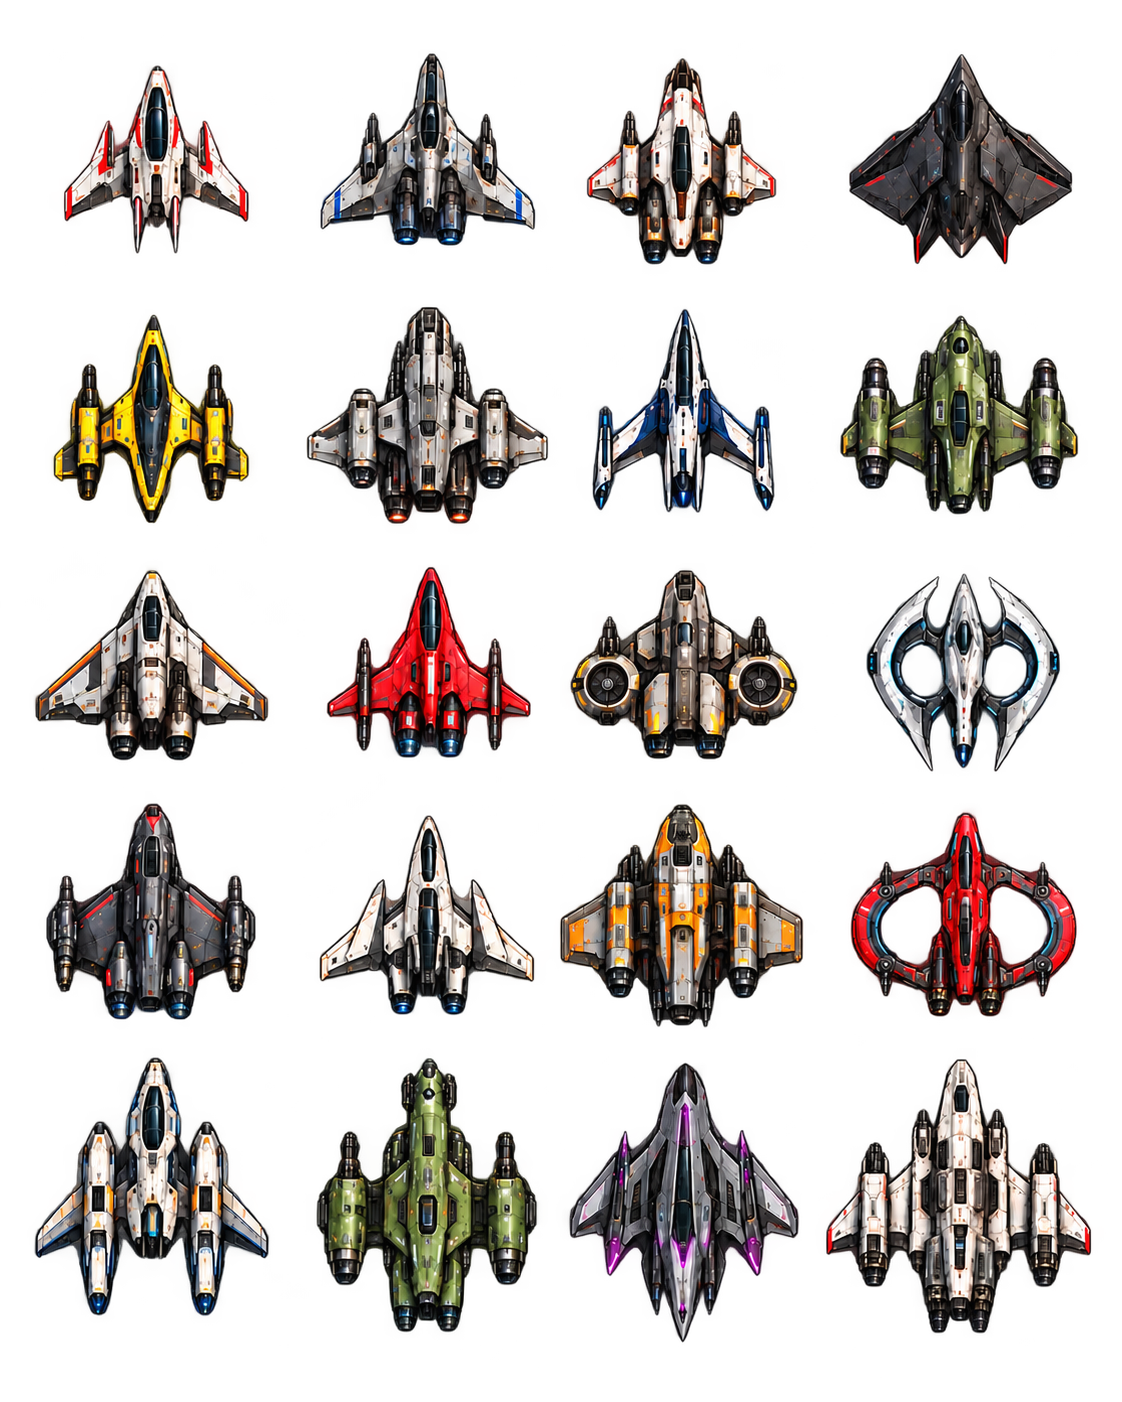
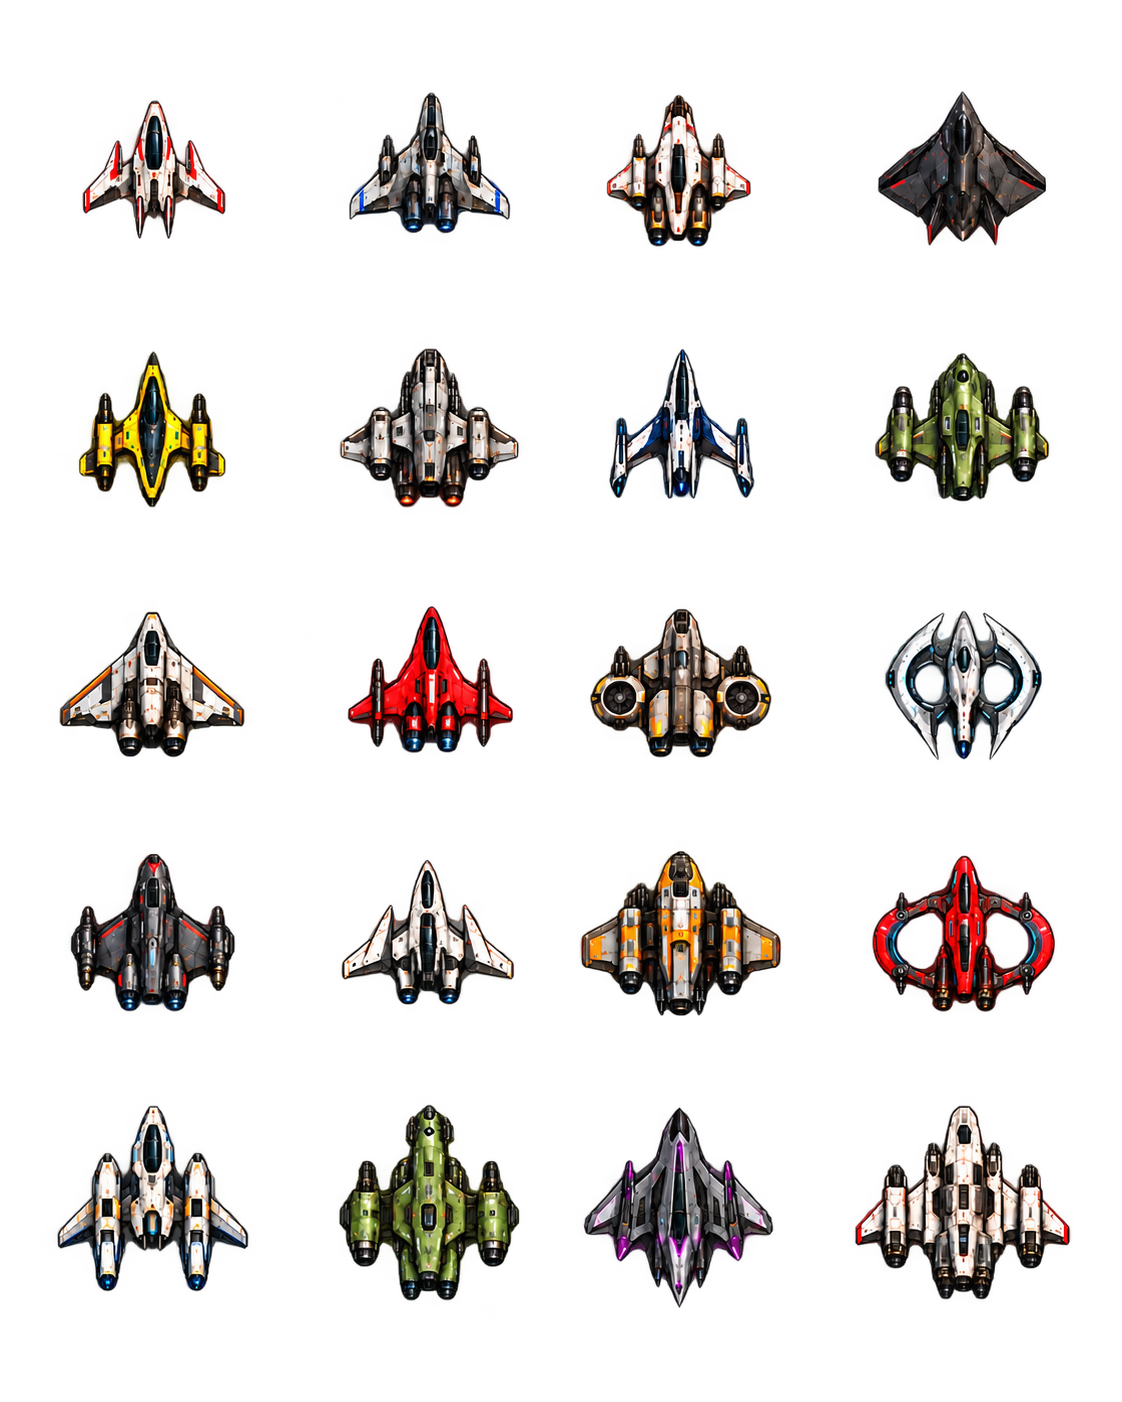
Fix ship silhouettes, orientation and flicker

diff --git a/frontend/src/index.css b/frontend/src/index.css
@@ -113,7 +113,7 @@ h2 { margin: 0; color: #eff8f3; font-size: clamp(22px, 3vw, 31px); font-weight: 
 @keyframes star-sway-near { to { transform: translate3d(-11px, 8px, 0); } }
 .shooting-star { position: absolute; top: 16%; left: -16%; width: 95px; height: 2px; border-radius: 50%; background: linear-gradient(90deg, transparent, #bce1ffad 70%, #fff); box-shadow: 0 0 5px #d8edff88; opacity: 0; animation: meteor-cross 18s linear infinite; }
 .shooting-star-two { top: 39%; left: -22%; width: 70px; animation-duration: 29s; animation-delay: -12s; }
-@keyframes meteor-cross { 0%, 28% { opacity: 0; transform: translate3d(0, 0, 0) rotate(-18deg); } 30% { opacity: .75; } 40% { opacity: .75; } 43%, 100% { opacity: 0; transform: translate3d(125vw, 28vh, 0) rotate(-18deg); } }
+@keyframes meteor-cross { 0%, 28% { opacity: 0; transform: translate3d(0, 0, 0); } 30% { opacity: .75; } 40% { opacity: .75; } 43%, 100% { opacity: 0; transform: translate3d(125vw, 0, 0); } }
 .starfield-paused .starfield-stars, .starfield-paused .shooting-star { animation-play-state: paused; }
 @media (prefers-reduced-motion: reduce) { .starfield-stars { animation: none; } .shooting-star { display: none; } }
 
@@ -192,9 +192,9 @@ h2 { margin: 0; color: #eff8f3; font-size: clamp(22px, 3vw, 31px); font-weight: 
 .cryptoid-ghostCoin .asteroid-shape { clip-path: polygon(50% 0, 82% 20%, 91% 69%, 72% 83%, 50% 70%, 28% 83%, 9% 69%, 18% 20%); }
 .cryptoid-cloaked { opacity: .33; pointer-events: none; }
 .cryptoid-cloaked::before { position: absolute; z-index: 2; top: -15px; left: 50%; transform: translateX(-50%); color: #e8c0ff; content: 'PHASED'; font: 8px 'DM Mono', monospace; letter-spacing: .1em; }
-.asteroid-preparing::after { border: 2px solid #f5c86d; background: rgba(245, 200, 109, .18); animation: attack-warning .32s ease-in-out infinite alternate; }
+.asteroid-preparing::after { border: 2px solid #f5c86d; background: rgba(245, 200, 109, .18); }
 @keyframes attack-warning { from { opacity: .35; } to { opacity: 1; } }
-.health-bar { position: absolute; z-index: 2; bottom: -12px; left: 16%; width: 68%; height: 3px; background: #18343f; }
+.health-bar { position: absolute; z-index: 2; top: -5px; left: 25%; width: 50%; height: 2px; border-radius: 2px; background: #263946; pointer-events: none; }
 .health-bar b { display: block; height: 100%; background: var(--gold); transition: width .15s ease; }
 .player-laser { position: absolute; z-index: 3; width: 5px; height: 19px; transform: translate(-50%, -50%); border-radius: 4px; background: linear-gradient(#fff, #d9b9ff, #8847df); box-shadow: 0 0 9px #e2adff, 0 0 18px #9162f1; pointer-events: none; }
 .player-laser-overdrive { width: 8px; height: 24px; background: linear-gradient(#fff, #ffd368, #bd62ff); box-shadow: 0 0 13px #ffdb7c, 0 0 26px #bd62ff; }
@@ -203,7 +203,7 @@ h2 { margin: 0; color: #eff8f3; font-size: clamp(22px, 3vw, 31px); font-weight: 
 .player-wing { position: absolute; inset: 5px 0 12px; clip-path: polygon(50% 0, 64% 29%, 92% 46%, 100% 75%, 72% 71%, 61% 100%, 39% 100%, 28% 71%, 0 75%, 8% 46%, 36% 29%); background: linear-gradient(115deg, #f5c965 1%, #32165f 15%, #8533d6 36%, #b886ff 50%, #6d2fb5 65%, #34176a 85%, #f5c965 99%); border-bottom: 2px solid #f6d17b; }
 .player-hull { position: absolute; top: 5px; left: 27px; width: 18px; height: 38px; clip-path: polygon(50% 0, 100% 43%, 76% 100%, 24% 100%, 0 43%); background: linear-gradient(90deg, #f6d47e, #eee6ff 42%, #7141cb 70%, #f6d47e); }
 .player-core { position: absolute; top: 20px; left: 27px; display: grid; place-items: center; width: 18px; height: 18px; border-radius: 50%; background: #311b64; border: 1px solid #f6d47e; color: #ffd972; font: 700 16px Georgia, serif; text-shadow: 0 0 6px #f6d47e; }
-.player-engine { position: absolute; bottom: 0; width: 8px; height: 17px; border-radius: 0 0 50% 50%; background: linear-gradient(#f9fbff, #ab67ff, transparent); box-shadow: 0 4px 12px #ba79ff; animation: engine-pulse .28s ease-in-out infinite alternate; }
+.player-engine { position: absolute; bottom: 0; width: 8px; height: 17px; border-radius: 0 0 50% 50%; background: linear-gradient(#f9fbff, #ab67ff, transparent); box-shadow: 0 4px 12px #ba79ff; }
 .player-engine-left { left: 20px; }.player-engine-right { right: 20px; }
 .player-ship-hurt { opacity: .62; filter: drop-shadow(0 0 14px #fff); }
 
@@ -225,8 +225,8 @@ h2 { margin: 0; color: #eff8f3; font-size: clamp(22px, 3vw, 31px); font-weight: 
 .cryptoid-elite .cryptoid-core { box-shadow: 0 2px 0 #10202c, 0 0 15px var(--ship-edge), 0 0 0 3px #d9b5ed55, inset 0 0 0 2px var(--coin-dark); }
 .asteroid.sector-boss { width: 124px; height: 104px; z-index: 2; filter: drop-shadow(0 0 17px #ff9c67); }
 .sector-boss .cryptoid-core { font-size: 17px; }
-.sector-boss .health-bar { bottom: -16px; height: 6px; border: 1px solid #f7bd8e; }
-.sector-boss.boss-warning::after { border: 3px solid #ffd67d; background: rgba(255, 124, 75, .15); animation: attack-warning .32s ease-in-out infinite alternate; }
+.sector-boss .health-bar { top: -7px; height: 3px; }
+.sector-boss.boss-warning::after { border: 3px solid #ffd67d; background: rgba(255, 124, 75, .15); }
 .sector-boss.boss-enraged { filter: drop-shadow(0 0 20px #ff6779); }
 .cryptoid-solflare .asteroid-shape { clip-path: polygon(43% 0, 50% 19%, 57% 0, 72% 34%, 100% 50%, 72% 68%, 56% 77%, 50% 100%, 44% 77%, 28% 68%, 0 50%, 28% 34%); }
 .cryptoid-etherCrystal .asteroid-shape { clip-path: polygon(32% 5%, 50% 17%, 68% 5%, 76% 30%, 100% 39%, 83% 78%, 64% 66%, 50% 100%, 36% 66%, 17% 78%, 0 39%, 24% 30%); background: linear-gradient(90deg, #214569, #69c7e9 25%, #bedaff 50%, #796dc9 75%, #214569); }
@@ -239,13 +239,12 @@ h2 { margin: 0; color: #eff8f3; font-size: clamp(22px, 3vw, 31px); font-weight: 
 .player-ship .player-core::after { position: absolute; inset: 3px; border: 1px solid #82532b99; border-radius: 50%; content: ''; }
 /* Transparent reference fleet: body, emblem, and hit area remain independent. */
 .cryptoid::after { display: none; }
-.fleet-sprite { position: absolute; inset: 0; background-size: 400% 500%; background-repeat: no-repeat; clip-path: inset(8%); pointer-events: none; }
-.cryptoid .fleet-sprite { filter: drop-shadow(0 0 6px var(--ship-edge)); }
-.cryptoid .cryptoid-core { top: 53%; width: 30%; border-width: 1px; font-size: clamp(7px, 1vw, 11px); }
-.cryptoid-heavy .cryptoid-core, .cryptoid-elite .cryptoid-core { width: 28%; font-size: 13px; }
-.cryptoid .cryptoid-core::before { position: absolute; inset: -4px; border-radius: 50%; background: conic-gradient(var(--coin-light) var(--health, 100%), #29313f 0); content: ''; z-index: -1; }
+.fleet-sprite { position: absolute; inset: 0; background-size: 400% 500%; background-repeat: no-repeat; pointer-events: none; }
+.cryptoid .fleet-sprite { transform: rotate(180deg); filter: drop-shadow(0 0 3px var(--ship-edge)); }
+.cryptoid .cryptoid-core { top: 50%; width: 24%; border-width: 1px; font-size: clamp(7px, .85vw, 10px); }
+.cryptoid-heavy .cryptoid-core, .cryptoid-elite .cryptoid-core { width: 23%; font-size: 10px; }
 .cryptoid .cryptoid-core::after { inset: 11%; }
-.sector-boss .cryptoid-core { font-size: 14px; }
+.sector-boss .cryptoid-core { font-size: 11px; }
 .player-ship { width: 76px; height: 76px; }
 .player-ship .fleet-sprite { filter: sepia(1) saturate(4.5) hue-rotate(calc(225deg + var(--ship-hue))) drop-shadow(0 0 7px var(--ship-glow)); }
 .player-ship .player-core { top: 30px; left: 27px; width: 22px; height: 22px; font-size: 17px; }
@@ -268,7 +267,7 @@ h2 { margin: 0; color: #eff8f3; font-size: clamp(22px, 3vw, 31px); font-weight: 
 .ship-choice small { color: var(--gold); font: 9px 'DM Mono', monospace; }
 .ship-choice[aria-pressed="true"], .color-choice[aria-pressed="true"] { border-color: #f2c968; box-shadow: 0 0 12px #f2c96866; }
 .ship-preview { position: relative; display: block; width: 72px; height: 72px; }
-.ship-preview i { position: absolute; inset: 0; background-size: 400% 500%; clip-path: inset(8%); filter: sepia(1) saturate(4.5) hue-rotate(calc(225deg + var(--ship-hue))) drop-shadow(0 0 5px var(--ship-glow)); }
+.ship-preview i { position: absolute; inset: 0; background-size: 400% 500%; filter: sepia(1) saturate(4.5) hue-rotate(calc(225deg + var(--ship-hue))) drop-shadow(0 0 5px var(--ship-glow)); }
 .ship-preview-starter i { filter: grayscale(1) brightness(1.12) drop-shadow(0 0 5px #aeb7c4); }
 .ship-preview b { position: absolute; top: 42%; left: 35%; display: grid; place-items: center; width: 22px; height: 22px; border: 1px solid #f6d47e; border-radius: 50%; background: #eebd5a; color: #3f2058; font: 700 17px Georgia, serif; }
 .hangar-selection strong { color: #fff; }

diff --git a/frontend/src/pages/GamePage.tsx b/frontend/src/pages/GamePage.tsx
@@ -137,6 +137,7 @@ const GamePage = () => {
   const sectionSlotsRef = useRef<ReturnType<typeof formationLayout> | null>(null);
   const animationRef = useRef<number | null>(null);
   const lastFrameRef = useRef(0);
+  const lastPaintRef = useRef(0);
   const spawnTimerRef = useRef(0);
   const sectionElapsedRef = useRef(0);
   const clearTimerRef = useRef(0);
@@ -384,7 +385,11 @@ const GamePage = () => {
             recordsSavedRef.current = true;
           }
         }
-        setGame({ ...state, boss: state.boss ? { ...state.boss } : null, asteroids: [...state.asteroids], bonusTargets: [...state.bonusTargets], shots: [...state.shots], enemyShots: [...state.enemyShots], effects: [...state.effects], powerUps: [...state.powerUps] });
+        // The simulation remains on requestAnimationFrame; cap expensive React/SVG paints.
+        if (time - lastPaintRef.current >= 32 || state.phase !== previousPhase || state.status !== "playing") {
+          lastPaintRef.current = time;
+          setGame({ ...state, boss: state.boss ? { ...state.boss } : null, asteroids: [...state.asteroids], bonusTargets: [...state.bonusTargets], shots: [...state.shots], enemyShots: [...state.enemyShots], effects: [...state.effects], powerUps: [...state.powerUps] });
+        }
       }
       animationRef.current = window.requestAnimationFrame(loop);
     };
@@ -428,6 +433,7 @@ const GamePage = () => {
     fireTimerRef.current = 0;
     pointerRef.current = null;
     lastFrameRef.current = 0;
+    lastPaintRef.current = 0;
     setGame(stateRef.current);
   };
 
@@ -457,9 +463,9 @@ const GamePage = () => {
         {game.encounter === "normal" && isBonusSection(game.section) && game.phase !== "SECTOR_CLEAR" && <div className="bonus-counter" aria-live="polite">BONUS TARGETS {game.bonusHits} / {BONUS_TARGET_COUNT} · NO ENEMY FIRE</div>}
         {(game.shieldCharges > 0 || game.overdriveMs > 0) && <div className="power-status" aria-live="polite">{game.shieldCharges > 0 && <span>◇ SHIELD {game.shieldCharges}</span>}{game.overdriveMs > 0 && <span>ϟ OVERDRIVE {Math.ceil(game.overdriveMs / 1_000)}s</span>}</div>}
         {game.status === "playing" && (game.phase === "SECTOR_INTRO" || game.phase === "SECTOR_CLEAR") && <div className="sector-banner" aria-live="polite"><span>{game.encounter !== "normal" ? game.phase === "SECTOR_CLEAR" ? "SECTOR CLEAR" : "WARNING · SECTOR BOSS" : game.phase === "SECTOR_CLEAR" ? isBonusSection(game.section) ? "BONUS COMPLETE" : "SECTION CLEAR" : isBonusSection(game.section) ? "BONUS CHALLENGE" : `SECTOR ${String(game.sector).padStart(2, "0")}`}</span><strong>{game.encounter !== "normal" ? game.phase === "SECTOR_CLEAR" ? "CORE WARDEN DEFEATED" : "CORE WARDEN INCOMING" : game.phase === "SECTOR_CLEAR" ? isBonusSection(game.section) ? `${game.bonusResult} · ${game.bonusHits}/${BONUS_TARGET_COUNT}` : `SECTION ${sectionInSector(game.section)} COMPLETE` : isBonusSection(game.section) ? "HIT THE FLYING TARGETS" : sectorName(game.sector)}</strong></div>}
-        {game.boss && game.encounter === "boss-fight" && <div className={`asteroid cryptoid cryptoid-heavy cryptoid-bitrock sector-boss${game.boss.fireElapsed >= bossFireInterval(game.boss) - 550 ? " boss-warning" : ""}${game.boss.health <= game.boss.maxHealth / 2 ? " boss-enraged" : ""}`} style={{ left: game.boss.x, top: game.boss.y, transform: "translate(-50%, -50%)", "--health": `${game.boss.health / game.boss.maxHealth * 100}%` } as CSSProperties} title="Core Warden · sector boss"><div className="fleet-sprite" style={spriteStyle(19)} /><span className="cryptoid-core"><b>Q7</b></span></div>}
+        {game.boss && game.encounter === "boss-fight" && <div className={`asteroid cryptoid cryptoid-heavy cryptoid-bitrock sector-boss${game.boss.fireElapsed >= bossFireInterval(game.boss) - 550 ? " boss-warning" : ""}${game.boss.health <= game.boss.maxHealth / 2 ? " boss-enraged" : ""}`} style={{ left: game.boss.x, top: game.boss.y, transform: "translate(-50%, -50%)" }} title="Core Warden · sector boss"><div className="fleet-sprite" style={spriteStyle(19)} /><span className="cryptoid-core"><b>Q7</b></span><span className="health-bar"><b style={{ width: `${game.boss.health / game.boss.maxHealth * 100}%` }} /></span></div>}
         {game.bonusTargets.map(target => <div key={target.id} className="asteroid asteroid-small cryptoid cryptoid-solflare cryptoid-light bonus-ship" style={{ left: target.x, top: target.y, transform: "translate(-50%, -50%)" }}><div className="fleet-sprite" style={spriteStyle(enemySprite("light", target.index))} /><span className="cryptoid-core"><b>{["X", "Z", "R"][target.index % 3]}</b></span></div>)}
-        {game.asteroids.map(asteroid => <div key={asteroid.id} className={`asteroid asteroid-${asteroid.size} cryptoid cryptoid-${asteroid.type} cryptoid-${asteroid.shipClass}${asteroid.attackPattern !== null && asteroid.attackDelay > 0 ? " asteroid-preparing" : ""}${asteroid.cloaked ? " cryptoid-cloaked" : ""}`} title={`${cryptoidDisplayName[asteroid.type]} · ${asteroid.shipClass} · ${asteroid.faction}`} style={{ left: asteroid.x, top: asteroid.y, transform: `translate(-50%, -50%) rotate(${asteroid.rotation}deg)`, "--health": `${(asteroid.health / asteroid.maxHealth) * 100}%` } as CSSProperties}><div className="fleet-sprite" style={spriteStyle(enemySprite(asteroid.shipClass, asteroid.formationSlot))} /><span className="cryptoid-core"><b>{asteroid.faction}</b></span></div>)}
+        {game.asteroids.map(asteroid => <div key={asteroid.id} className={`asteroid asteroid-${asteroid.size} cryptoid cryptoid-${asteroid.type} cryptoid-${asteroid.shipClass}${asteroid.attackPattern !== null && asteroid.attackDelay > 0 ? " asteroid-preparing" : ""}${asteroid.cloaked ? " cryptoid-cloaked" : ""}`} title={`${cryptoidDisplayName[asteroid.type]} · ${asteroid.shipClass} · ${asteroid.faction}`} style={{ left: asteroid.x, top: asteroid.y, transform: `translate(-50%, -50%) rotate(${asteroid.rotation}deg)` }}><div className="fleet-sprite" style={spriteStyle(enemySprite(asteroid.shipClass, asteroid.formationSlot))} /><span className="cryptoid-core"><b>{asteroid.faction}</b></span><span className="health-bar"><b style={{ width: `${asteroid.health / asteroid.maxHealth * 100}%` }} /></span></div>)}
         {game.powerUps.map(pickup => <div key={pickup.id} className={`power-up power-up-${pickup.type}`} title={powerUpNames[pickup.type]} style={{ left: pickup.x, top: pickup.y }}><span>{powerUpSymbols[pickup.type]}</span></div>)}
         {game.shots.map(shot => <div key={shot.id} className={`player-laser${shot.empowered ? " player-laser-overdrive" : ""}`} style={{ left: shot.x, top: shot.y }} />)}
         {game.enemyShots.map(shot => <div key={shot.id} className="enemy-laser" style={{ left: shot.x, top: shot.y }} />)}

diff --git a/frontend/src/pages/sectorManager.ts b/frontend/src/pages/sectorManager.ts
@@ -17,15 +17,15 @@ export const sectorForSection = (section: number) => Math.floor((Math.max(1, sec
 export const sectionInSector = (section: number) => (Math.max(1, section) - 1) % SECTIONS_PER_SECTOR + 1;
 
 export const formationLayout = (section: number, width: number, height: number) => {
-  const columns = width < 620 ? 3 : 5;
-  const rows = width < 620 ? 2 : 3;
+  const columns = width < 760 ? 3 : 5;
+  const rows = width < 760 ? 2 : 3;
   return Array.from({ length: columns * rows }, (_, index) => {
     const row = Math.floor(index / columns);
     const column = index % columns;
     // Alternate arrival order within each row; the final positions remain a stable grid.
     const arrivalColumn = row % 2 ? columns - 1 - column : column;
     const x = width * (columns === 3 ? .17 + arrivalColumn * .33 : .15 + arrivalColumn * .175);
-    const y = height * (rows === 2 ? .21 + row * .18 : .19 + row * .11);
+    const y = height * (rows === 2 ? .21 + row * .18 : .16) + (rows === 3 ? row * Math.max(100, height * .12) : 0);
     return { index, x, y, row, column: arrivalColumn, entrySide: (row + column + section) % 2 === 0 ? 1 : -1 };
   });
 };

diff --git a/frontend/src/pages/SectorBackdrop.tsx b/frontend/src/pages/SectorBackdrop.tsx
@@ -1,4 +1,4 @@
-import type { CSSProperties } from "react";
+import { memo, type CSSProperties } from "react";
 import type { PlayerPosition } from "./playerCombat";
 
 const SectorBackdrop = ({ sector, player }: { sector: number; player: PlayerPosition }) => {
@@ -25,4 +25,4 @@ const SectorBackdrop = ({ sector, player }: { sector: number; player: PlayerPosi
   );
 };
 
-export default SectorBackdrop;
+export default memo(SectorBackdrop);

diff --git a/frontend/src/pages/Starfield.tsx b/frontend/src/pages/Starfield.tsx
@@ -1,4 +1,4 @@
-import type { CSSProperties } from "react";
+import { memo, type CSSProperties } from "react";
 import type { PlayerPosition } from "./playerCombat";
 
 type Star = { x: number; y: number; radius: number; color: string; opacity: number };
@@ -39,4 +39,4 @@ const Starfield = ({ sector, player, paused }: { sector: number; player: PlayerP
   </div>;
 };
 
-export default Starfield;
+export default memo(Starfield);
